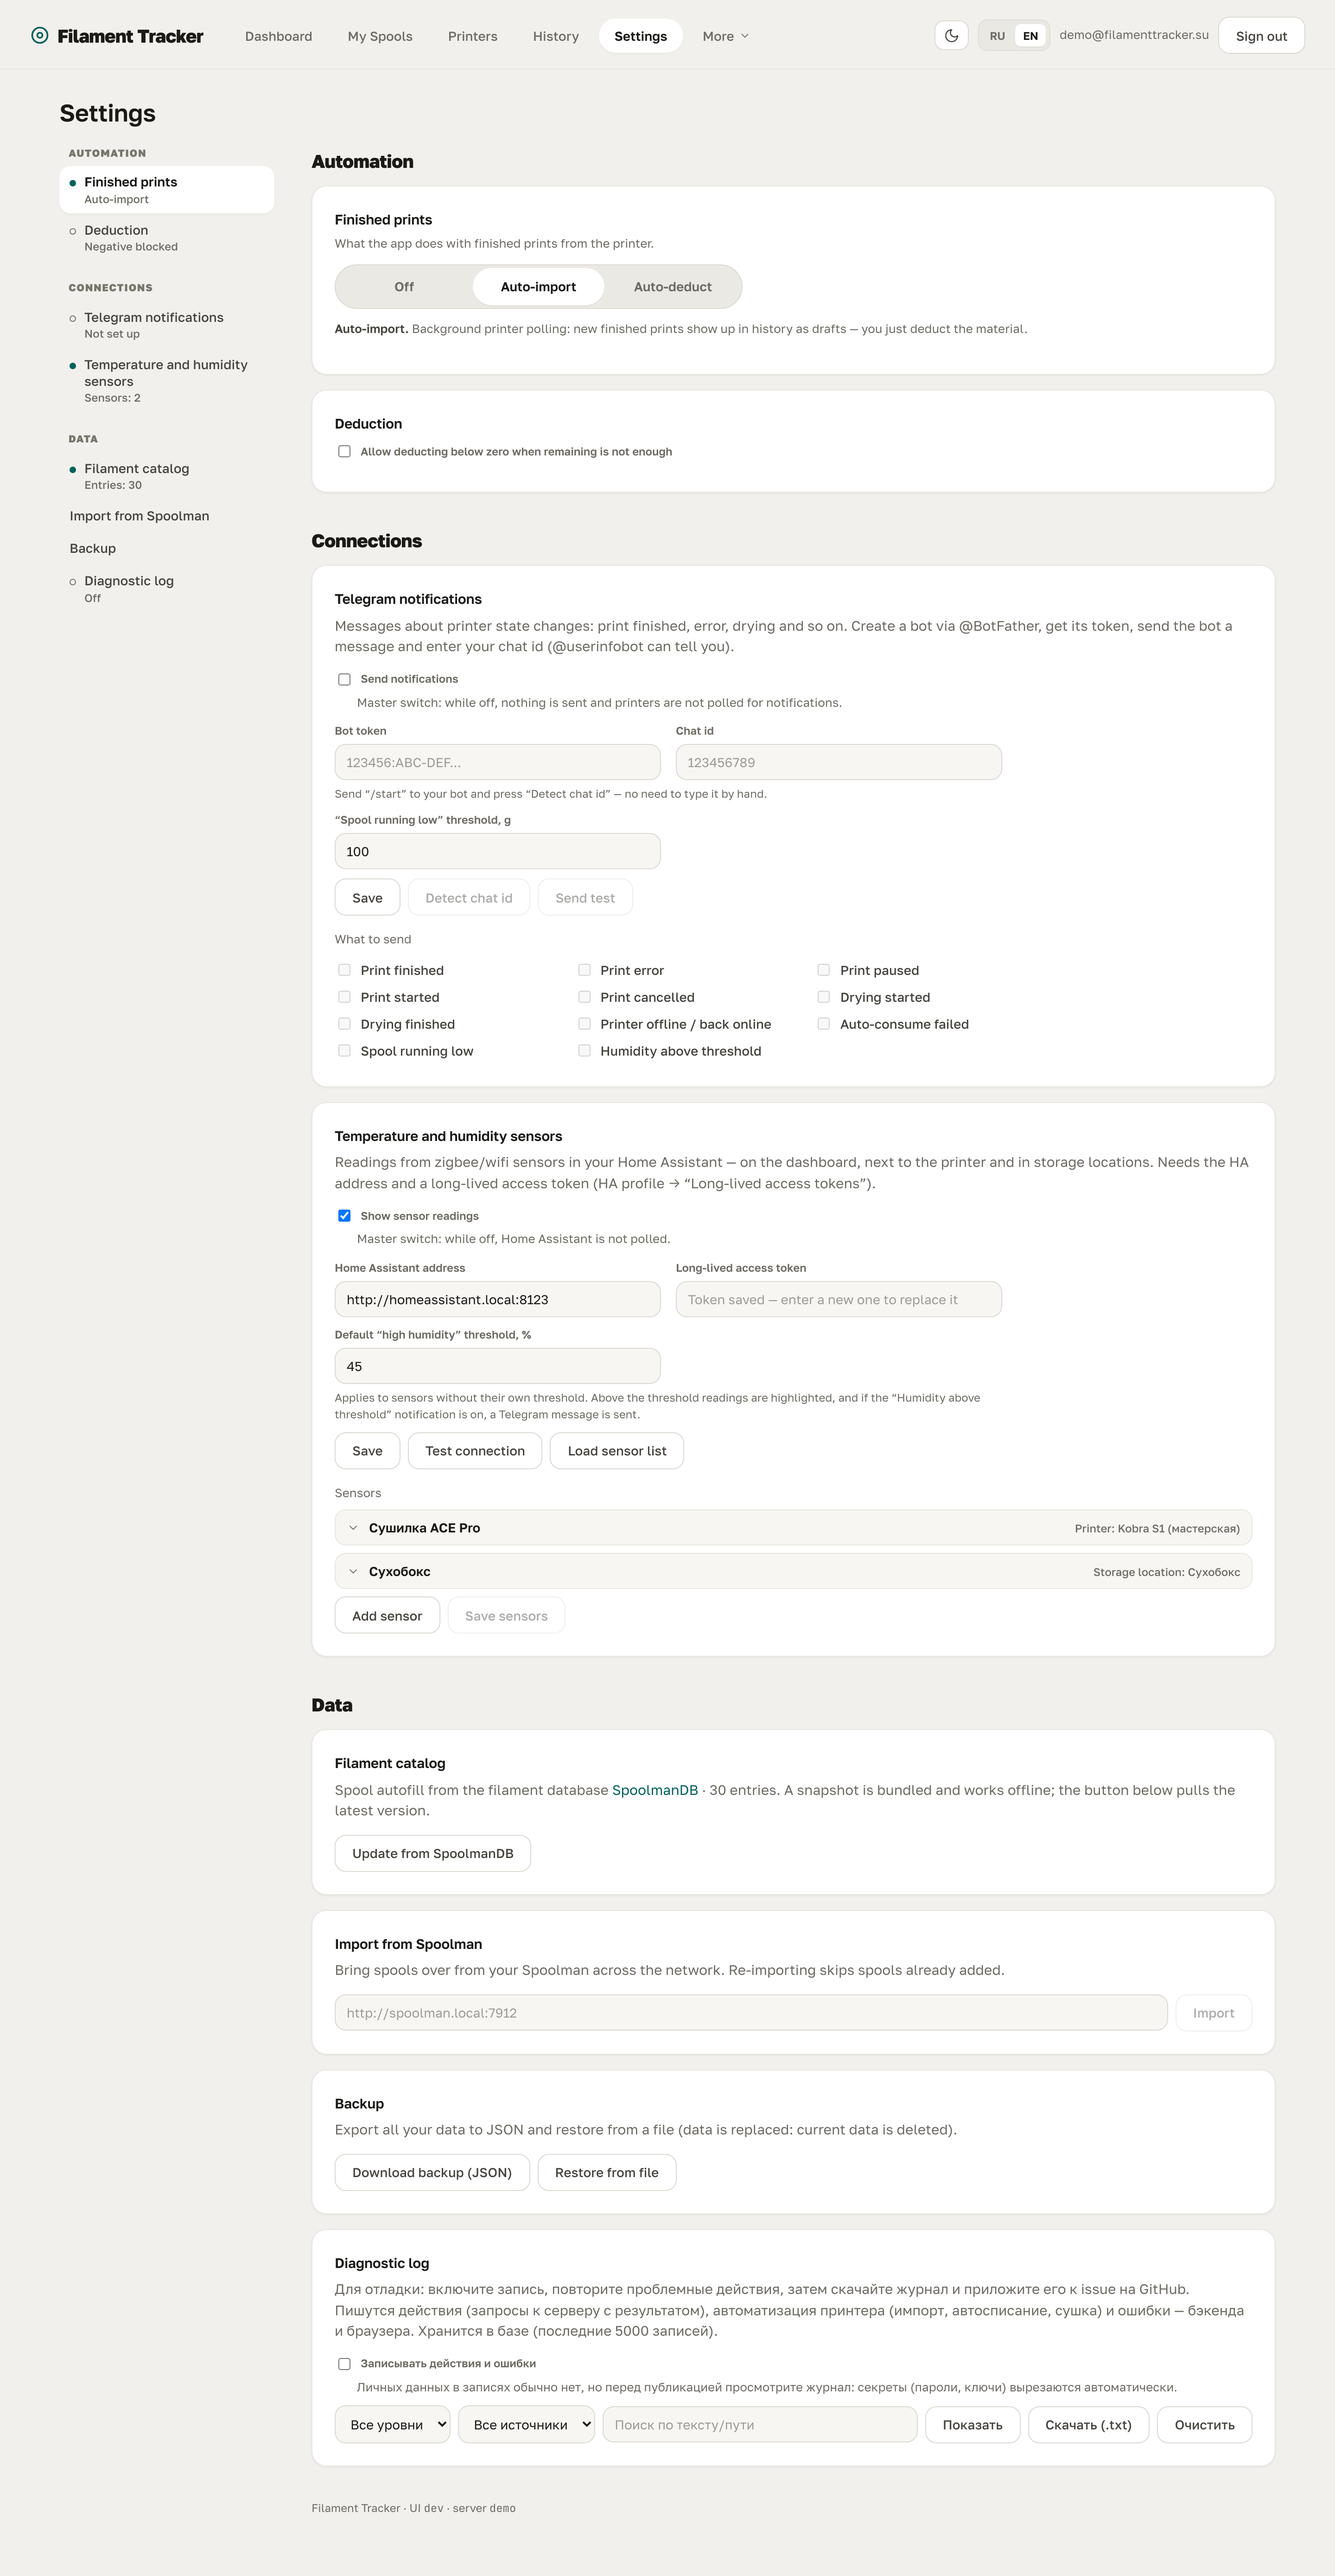
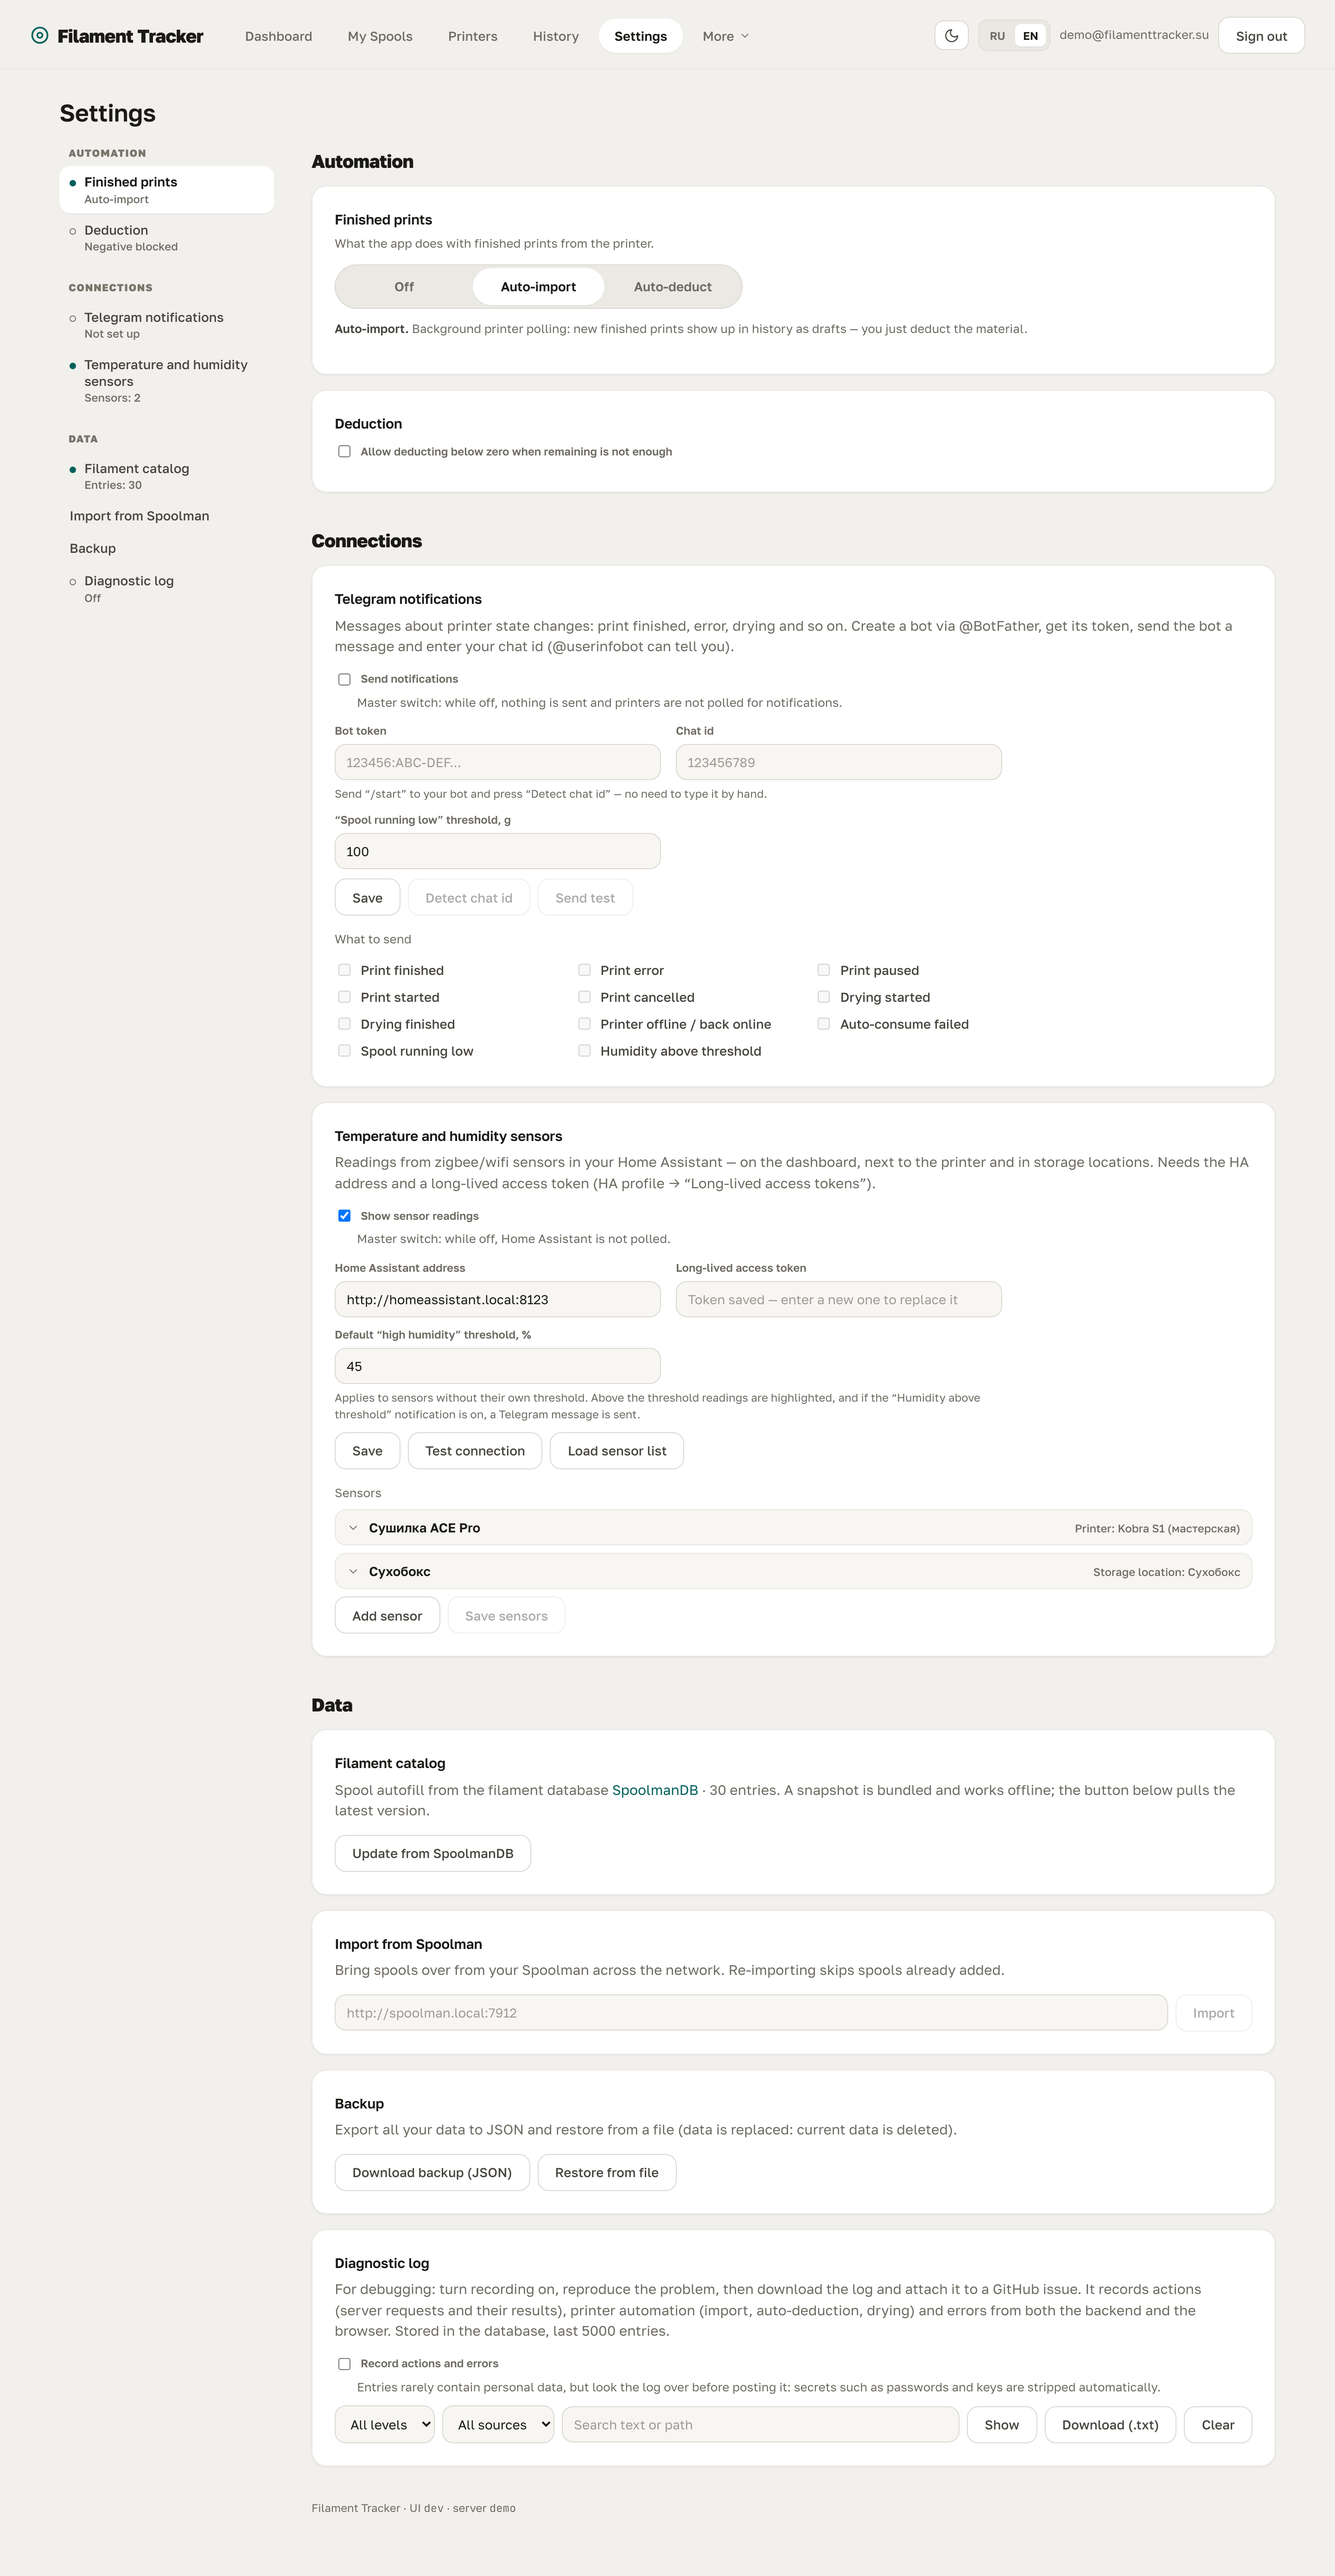
Английская локализация: 28 недостающих строк, названия полей этикетки с сервера
- целиком не переводились диагностический журнал, фаза подготовки к печати на панели и демо-баннер
- названия полей этикетки приходят с сервера и выводились мимо словаря — теперь через t()
- aria-label сегментного переключателя ссылался на переименованный ключ
- пересняты английские скриншоты панели, принтеров и настроек

Changed region(s): [[0.25, 0.8722, 0.875, 0.9345]]

diff --git a/frontend/src/locales/en.js b/frontend/src/locales/en.js
@@ -701,5 +701,33 @@ export const EN = {
   "Хватит на": "Enough for",
   "печатей по 50 г": "prints of 50 g",
   "Профиль печати": "Print profile",
+  "Поток / скорость": "Flow / speed",
+  // Оболочка, демо-стенд, фаза подготовки, диагностический журнал
+  "Навигация": "Navigation",
+  "Демо": "Demo",
+  "Сбросить демо": "Reset demo",
+  "данные живут только в этом браузере и не сохраняются на сервере.": "data lives in this browser only and is never saved to a server.",
+  "Все катушки →": "All spools →",
+  "Подготовка": "Preparing",
+  "Подготовка к печати": "Getting ready to print",
+  "Калибровка стола и прогрев — печать ещё не началась": "Levelling the bed and warming up — printing hasn't started yet",
+  "Слой": "Layer",
+  "Слоёв в задании": "Layers in job",
+  "Списать по факту": "Deduct actual usage",
+  "Печать прервана — списать фактически израсходованное": "Print interrupted — deduct what was actually used",
+  "Печать прервана — спишется фактически израсходованная длина": "Print interrupted — the length actually used will be deducted",
+  "Записывать действия и ошибки": "Record actions and errors",
+  "Для отладки: включите запись, повторите проблемные действия, затем скачайте журнал и приложите его к issue на GitHub. Пишутся действия (запросы к серверу с результатом), автоматизация принтера (импорт, автосписание, сушка) и ошибки — бэкенда и браузера. Хранится в базе (последние 5000 записей).": "For debugging: turn recording on, reproduce the problem, then download the log and attach it to a GitHub issue. It records actions (server requests and their results), printer automation (import, auto-deduction, drying) and errors from both the backend and the browser. Stored in the database, last 5000 entries.",
+  "Личных данных в записях обычно нет, но перед публикацией просмотрите журнал: секреты (пароли, ключи) вырезаются автоматически.": "Entries rarely contain personal data, but look the log over before posting it: secrets such as passwords and keys are stripped automatically.",
+  "Все уровни": "All levels",
+  "Все источники": "All sources",
+  "Поиск по тексту/пути": "Search text or path",
+  "Показать": "Show",
+  "Скачать (.txt)": "Download (.txt)",
+  "Очистить": "Clear",
+  "Показано": "Showing",
+  "Журнал пуст.": "The log is empty.",
+  "Журнал очищен": "Log cleared",
+  "подробнее": "details",
   "Записей:": "Entries:",
 };

diff --git a/frontend/src/pages/SpoolDetail.jsx b/frontend/src/pages/SpoolDetail.jsx
@@ -331,7 +331,9 @@ export default function SpoolDetail() {
                     <div key={i} style={{ display: "flex", gap: 8, alignItems: "center", marginBottom: 6 }}>
                       <span className="muted" style={{ width: 60 }}>{t("Поле")}{" "}{i + 1}</span>
                       <select value={val} style={{ flex: 1 }} onChange={(e) => { const n = [...fieldSlots]; n[i] = e.target.value; setFieldSlots(n); }}>
-                        {(labelOpts?.fields || []).map((f) => <option key={f.key} value={f.key}>{f.label || t("— нет —")}</option>)}
+                        {/* Названия полей приходят с сервера, но это подписи интерфейса,
+                            а не данные пользователя — прогоняем через словарь. */}
+                        {(labelOpts?.fields || []).map((f) => <option key={f.key} value={f.key}>{f.label ? t(f.label) : t("— нет —")}</option>)}
                       </select>
                     </div>
                   ))}

diff --git a/frontend/src/pages/Settings.jsx b/frontend/src/pages/Settings.jsx
@@ -503,7 +503,7 @@ export default function Settings() {
         <div className="card-sub" style={{ marginBottom: 12 }}>
           {t("Что приложение делает с завершёнными печатями с принтера.")}
         </div>
-        <div className="seg-toggle" role="tablist" aria-label={t("Moonraker: автоматизация")}>
+        <div className="seg-toggle" role="tablist" aria-label={SECTION_TITLES.prints}>
           {AUTO_MODES.map((m) => (
             <button
               key={m.key}
